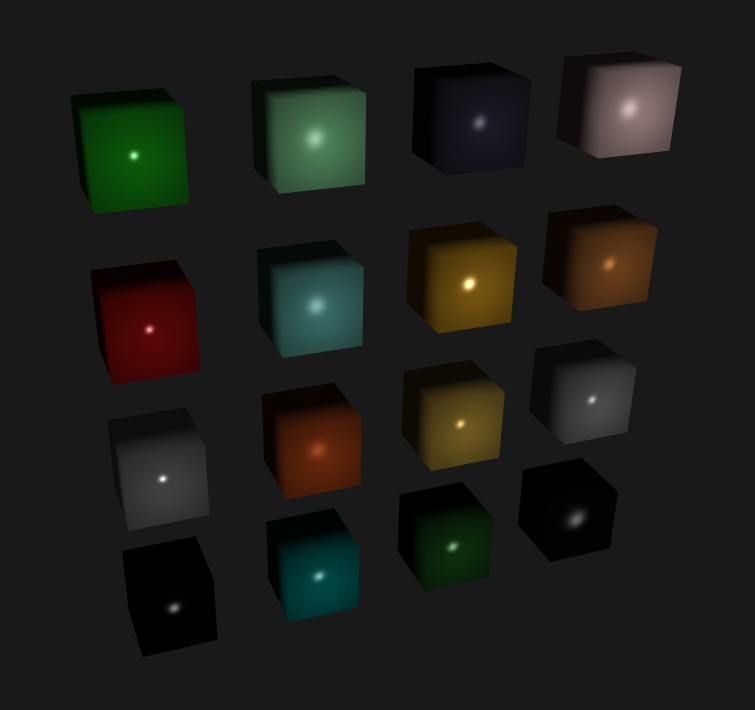
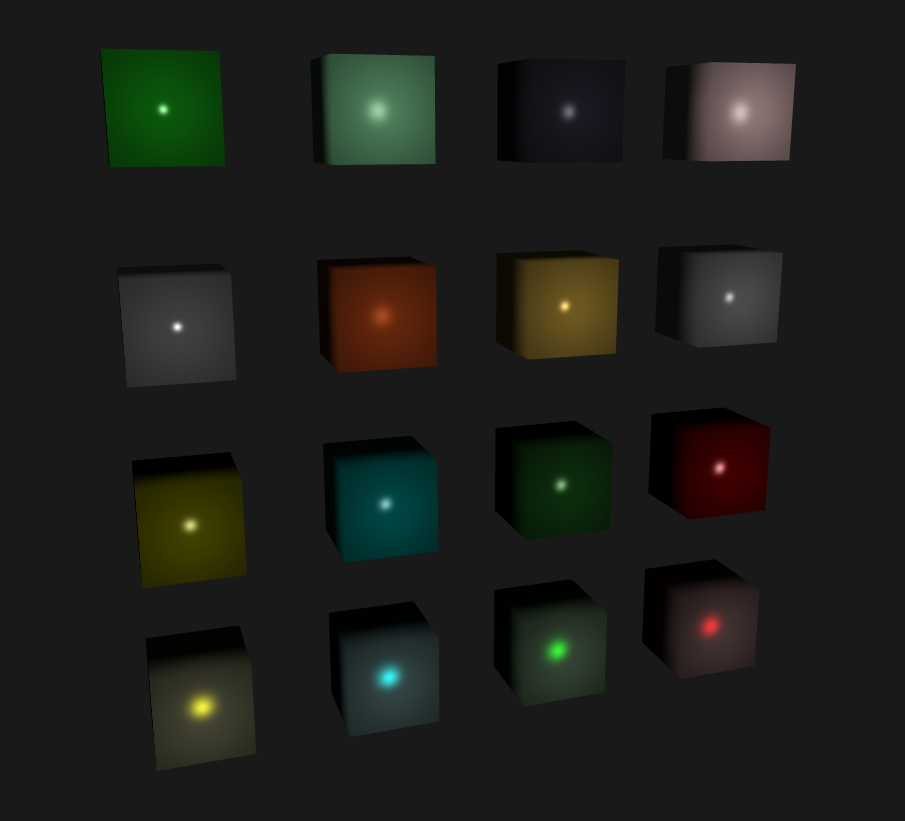
More materials, new demo, small uniform optimalisation

diff --git a/Sandbox/src/DemoMaterials.h b/Sandbox/src/DemoMaterials.h
@@ -2,8 +2,6 @@
 #include "BIGOS.h"
 #include <vector>
 
-
-
 BIGOS::Material emerald({ 0.0215 , 0.1745, 0.0215, 1.0000 }, { 0.07568 , 0.61424, 0.07568, 1.0000 }, { 0.633 , 0.727811, 0.633, 128 * 0.6 });
 BIGOS::Material jade({ 0.135 , 0.2225, 0.1575, 1.0000 }, { 0.54 , 0.89, 0.63, 1.0000 }, { 0.316228 , 0.316228, 0.316228, 128 * 0.1 });
 BIGOS::Material obsidian({ 0.05375 , 0.05, 0.06625, 1.0000 }, { 0.18275 , 0.17, 0.22525, 1.0000 }, { 0.332741 , 0.328634, 0.346435, 128 * 0.2 });
@@ -19,10 +17,18 @@ BIGOS::Material silver({ 0.19225 , 0.19225, 0.19225, 1.0000 }, { 0.50754 , 0.507
 BIGOS::Material black_plastic({ 0.0 , 0.0, 0.0, 1.0000 }, { 0.01 , 0.01, 0.01, 1.0000 }, { 0.50 , 0.50, 0.50, 128 * 0.25 });
 BIGOS::Material cyan_plastic({ 0.0 , 0.1, 0.06, 1.0000 }, { 0.0 , 0.50980392, 0.50980392, 1.0000 }, { 0.50196078 , 0.50196078, 0.50196078, 128 * 0.25 });
 BIGOS::Material green_plastic({ 0.0 , 0.0, 0.0, 1.0000 }, { 0.1 , 0.35, 0.1, 1.0000 }, { 0.45 , 0.55, 0.45, 128 * 0.25 });
-
+BIGOS::Material red_plastic({ 0.0 , 0.0, 0.0, 1.0000 }, { 0.5 , 0.0, 0.0, 1.0000 }, { 0.7 , 0.6, 0.6, 128 * 0.25 });
+BIGOS::Material white_plastic({ 0.0 , 0.0, 0.0, 1.0000 }, { 0.55 , 0.55, 0.55, 1.0000 }, { 0.7 , 0.7, 0.7, 128 * 0.25 });
+BIGOS::Material yellow_plastic({ 0.0 , 0.0, 0.0, 1.0000 }, { 0.5 , 0.5, 0.0, 1.0000 }, { 0.60 , 0.60, 0.50, 128 * 0.25 });
 BIGOS::Material black_rubber({ 0.02 , 0.02, 0.02, 1.0000 }, { 0.01 , 0.01, 0.01, 1.0000 }, { 0.4 , 0.4, 0.4, 128 * 0.078125 });
+BIGOS::Material cyan_rubber({ 0.0 , 0.05, 0.05, 1.0000 }, { 0.4 , 0.5, 0.5, 1.0000 }, { 0.04 , 0.7, 0.7, 128 * 0.078125 });
+BIGOS::Material green_rubber({ 0.0 , 0.05, 0.0, 1.0000 }, { 0.4 , 0.5, 0.4, 1.0000 }, { 0.04 , 0.7, 0.04, 128 * 0.078125 });
+BIGOS::Material red_rubber({ 0.05 , 0.0, 0.0, 1.0000 }, { 0.5 , 0.4, 0.4, 1.0000 }, { 0.7 , 0.04, 0.04, 128 * 0.078125 });
+BIGOS::Material white_rubber({ 0.05 , 0.05, 0.05, 1.0000 }, { 0.5 , 0.5, 0.5, 1.0000 }, { 0.7 , 0.7, 0.7, 128 * 0.078125 });
+BIGOS::Material yellow_rubber({ 0.05 , 0.05, 0.0, 1.0000 }, { 0.5 , 0.5, 0.4, 1.0000 }, { 0.7 , 0.7, 0.04, 128 * 0.078125 });
 
 std::vector<BIGOS::Material> materialPallete = { emerald, jade, obsidian, pearl,
-												 ruby, turquoise, brass, bronze,
+												 //ruby, turquoise, brass, bronze,
 												 chrome, copper, gold, silver,
-												 black_plastic, cyan_plastic, green_plastic, black_rubber};
+												 yellow_plastic, cyan_plastic, green_plastic, red_plastic,
+												 yellow_rubber, cyan_rubber, green_rubber, red_rubber };

diff --git a/Sandbox/src/TestLayer.cpp b/Sandbox/src/TestLayer.cpp
@@ -3,12 +3,17 @@
 #include "DemoMaterials.h"
 
 __declspec(align(16))
-struct ConstantBufferData
+struct PFConstantBufferData
+{
+	BIGOS::math::vec3 u_CameraPosition;
+	BIGOS::Light u_Light;
+};
+
+__declspec(align(16))
+struct POConstantBufferData
 {
 	BIGOS::math::mat4 u_Transform;
 	BIGOS::math::mat4 u_ViewProj;
-	BIGOS::math::vec3 u_CameraPosition;
-	BIGOS::Light u_Light;
 	BIGOS::Material u_Material;
 };
 
@@ -24,7 +29,8 @@ void TestLayer::OnAttach()
 
 	m_Cube = BIGOS::MeshGenerator::CreateCube(1.0f);
 	
-	m_CBPerObject = BIGOS::ConstantBuffer::Create(sizeof(ConstantBufferData));
+	m_CBPerObject = BIGOS::ConstantBuffer::Create(sizeof(POConstantBufferData));
+	m_CBPerFrame = BIGOS::ConstantBuffer::Create(sizeof(PFConstantBufferData));
 
 	m_EditorCamera = BIGOS::EditorCamera(45.0f, 1.778f, 0.1f, 1000.0f);
 
@@ -54,26 +60,31 @@ void TestLayer::OnUpdate(BIGOS::Utils::Timestep ts)
 	// Editor cammera controlls movement
 	m_EditorCamera.OnUpdate(ts);
 
+
 	// Scene update
-	ConstantBufferData cbPerObject;
+	PFConstantBufferData cbPerFrame;
+	cbPerFrame.u_CameraPosition = m_EditorCamera.GetPosition();
+	cbPerFrame.u_Light = *m_Light;
+	m_CBPerFrame->SetData(&cbPerFrame, sizeof(cbPerFrame));
+	m_CBPerFrame->Bind(0);
+
+	POConstantBufferData cbPerObject;
 	
 	size_t matIndex = 0;
 	for (size_t i = 0; i < 4; i++)
 	{
 		for (size_t j = 0; j < 4; j++)
 		{
-			BIGOS::math::mat4 tempTrans = BIGOS::math::mat4::Translate({ -4.0f + 2 * j, 4.0f - 2 * i, 0.0f });
+			BIGOS::math::mat4 tempTrans = BIGOS::math::mat4::Translate({ -3.0f + 2 * j, 3.0f - 2 * i, 0.0f });
 			BIGOS::math::mat4 tempRot = BIGOS::math::mat4::Rotate(0.0f, { 1, 1, 0 });
 			BIGOS::math::mat4 tempScale = BIGOS::math::mat4::Scale({ 1.0f, 1.0f, 1.0f });
 
 			cbPerObject.u_Transform = BIGOS::math::mat4::Identity();
 			cbPerObject.u_Transform *= tempTrans * tempRot * tempScale;
 			cbPerObject.u_ViewProj = m_EditorCamera.GetViewProjection();
-			cbPerObject.u_CameraPosition = m_EditorCamera.GetPosition();
-			cbPerObject.u_Light = *m_Light;
 			cbPerObject.u_Material = m_Materials[matIndex];
 			m_CBPerObject->SetData(&cbPerObject, sizeof(cbPerObject));
-			m_CBPerObject->Bind(0); // first param is register
+			m_CBPerObject->Bind(1); // param is register
 
 			m_Cube->Render();
 			matIndex++;

diff --git a/BIGOSengine/src/Platform/DirectX/Direct3DContext.cpp b/BIGOSengine/src/Platform/DirectX/Direct3DContext.cpp
@@ -127,8 +127,8 @@ namespace BIGOS {
 
 		// Creating DepthStencil buffer
 		D3D11_TEXTURE2D_DESC depthStencilDesc;
-		depthStencilDesc.Width = width + 1;
-		depthStencilDesc.Height = height + 1;
+		depthStencilDesc.Width = width ? width : 1;
+		depthStencilDesc.Height = height ? height : 1;
 		depthStencilDesc.MipLevels = 1;
 		depthStencilDesc.ArraySize = 1;
 		depthStencilDesc.Format = DXGI_FORMAT_D24_UNORM_S8_UINT;

diff --git a/BIGOSengine/src/Platform/DirectX/Direct3DBuffer.cpp b/BIGOSengine/src/Platform/DirectX/Direct3DBuffer.cpp
@@ -202,7 +202,7 @@ namespace BIGOS {
 	void Direct3DConstantBuffer::Bind(uint32_t slot) const
 	{
 		
-		Direct3DContext::GetDeviceContext()->PSSetConstantBuffers(0, 1, &m_BufferHandle);
+		Direct3DContext::GetDeviceContext()->PSSetConstantBuffers(slot, 1, &m_BufferHandle);
 		Direct3DContext::GetDeviceContext()->VSSetConstantBuffers(slot, 1, &m_BufferHandle);
 
 	}

diff --git a/Sandbox/src/TestLayer.h b/Sandbox/src/TestLayer.h
@@ -22,7 +22,9 @@ private:
 	std::shared_ptr<BIGOS::Shader> m_Shader;
 	std::shared_ptr<BIGOS::VertexBuffer> m_VertexBuffer;
 	std::shared_ptr<BIGOS::IndexBuffer> m_IndexBuffer;
+
 	std::shared_ptr<BIGOS::ConstantBuffer> m_CBPerObject;
+	std::shared_ptr<BIGOS::ConstantBuffer> m_CBPerFrame;
 
 	BIGOS::Mesh* m_Cube = nullptr;
 	BIGOS::Light* m_Light = nullptr;
